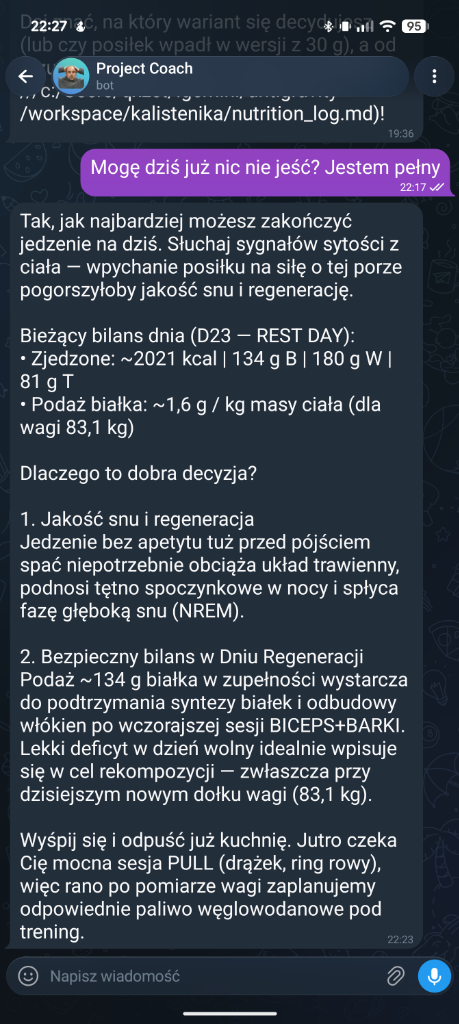
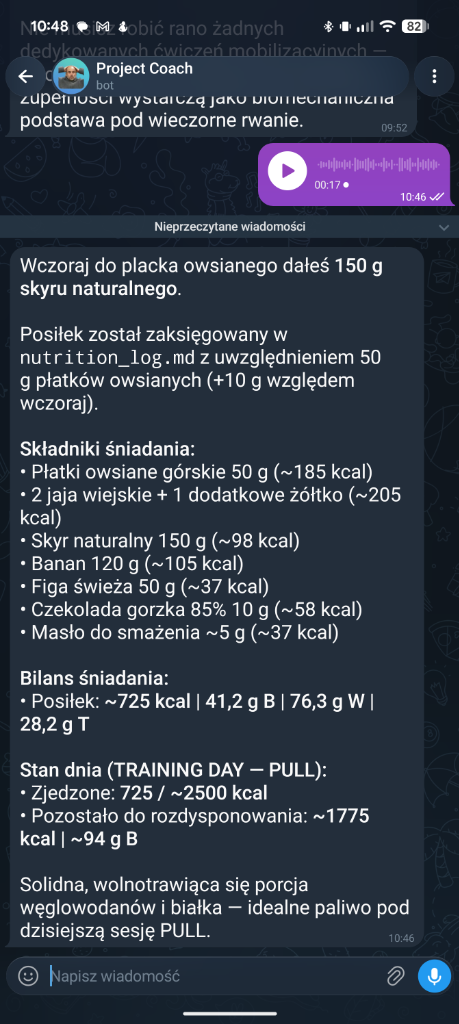
fix(showcase): update mobile interface screenshot and align captions

Changed region(s): [[0.0305, 0.0, 1.0, 0.9375], [0.8845, 0.0, 0.9455, 0.0312]]

diff --git a/CHANGELOG.pl.md b/CHANGELOG.pl.md
@@ -1,4 +1,4 @@
-# 📋 Rejestr Zmian (CHANGELOG)
+# 📋 Rejestr Zmian (CHANGELOG)
 
 Wszystkie istotne zmiany i etapy ewolucji architektonicznej projektu **Project Coach** są dokumentowane w tym pliku.
 
@@ -10,7 +10,7 @@ Format oparty jest o [Keep a Changelog](https://keepachangelog.com/pl/1.0.0/), a
 ### Dodano
 - **Dedykowany formater wiadomości mobilnych (Mobile UX Redesign):** Opracowano mechanizm prezentacji odpowiedzi zoptymalizowany pod wąskie ekrany smartfonów i zegarków w aplikacji Telegram.
 - **Kompaktowe karty bilansu dobowego:** Wprowadzono czytelne punktory dla kluczowych parametrów (Zjedzone, Podaż białka, Stan dnia), eliminujące konieczność przewijania.
-- **Kontekstowa pętla decyzyjna:** Agent w analizie na żywo uwzględnia bieżący stan mikrocyklu (D23 — REST DAY), fizjologię snu głębokiego (NREM), obciążenie trawienne w nocy oraz plan jednostki treningowej na kolejny dzień.
+- **Kontekstowa pętla decyzyjna:** Agent w analizie na żywo uwzględnia bieżący plan jednostki treningowej (TRAINING DAY — PULL), pamięć posiłków z poprzednich dni oraz natychmiastowe bilansowanie makroskładników z notatki głosowej.
 
 ### Zmieniono
 - **Eliminacja surowego formatu Markdown (GFM):** Zastąpiono tabele z separatorami | (które w Telegramie renderowały się jako nieczytelny blok tekstu) przejrzystym układem pionowym.

diff --git a/CHANGELOG.md b/CHANGELOG.md
@@ -1,4 +1,4 @@
-# 📋 Changelog
+# 📋 Changelog
 
 All notable architectural decisions and evolutionary milestones of **Project Coach** are documented in this file.
 
@@ -10,7 +10,7 @@ The format is based on [Keep a Changelog](https://keepachangelog.com/en/1.0.0/),
 ### Added
 - **Dedicated Telegram Message Formatter (Mobile UX Redesign):** Built a mobile-native presentation layer optimized for narrow smartphone screens and smartwatches.
 - **Compact Daily Nutrition Cards:** Clean bullet points for essential daily totals (Eaten, Protein intake, Daily status), eliminating cluttered vertical text blocks.
-- **Contextual Real-Time Decision Loop:** The agent evaluates live queries by correlating recovery status (D23 — REST DAY), deep sleep physiology (NREM), nighttime digestive load, and upcoming workout nutrition targets.
+- **Contextual Real-Time Decision Loop:** The agent evaluates live voice queries by correlating workout scheduling (TRAINING DAY — PULL), multi-day meal memory, and real-time macronutrient balancing.
 
 ### Changed
 - **Elimination of Raw Markdown (GFM):** Replaced broken pipe tables (|) with clean, vertical cards that render natively in Telegram.

diff --git a/README.pl.md b/README.pl.md
@@ -105,7 +105,7 @@ Integracja z aplikacją Telegram zapewnia w pełni mobilną obsługę. Użytkown
 <div align="center">
   <img src="showcase/telegram_bot.jpg" width="360" alt="Telegram Bot Interface" />
 </div>
-<p align="center"><i>Odpowiedź oparta na faktach: agent w ułamku sekundy wykonuje zapytanie SQL do bazy SQLite (weryfikuje 2021 kcal, wagę 83.1 kg z poranka i status REST DAY), generując decyzję bez halucynacji.</i></p>
+<p align="center"><i>Odpowiedź oparta na faktach: agent przetwarza 17-sekundową notatkę głosową, porównuje składniki z wczorajszym wpisem i na bieżąco aktualizuje bilans makro pod zaplanowaną jednostkę (TRAINING DAY — PULL).</i></p>
 
 ---
 

diff --git a/README.md b/README.md
@@ -105,7 +105,7 @@ Full integration with Telegram enables completely mobile, hands-free operation. 
 <div align="center">
   <img src="showcase/telegram_bot.jpg" width="360" alt="Telegram Bot Interface" />
 </div>
-<p align="center"><i>Fact-based response: the agent queries SQLite in sub-second time (verifying 2,021 kcal, 83.1 kg weigh-in, and REST DAY status) to produce a deterministic recommendation without hallucinations.</i></p>
+<p align="center"><i>Fact-based response: the agent transcribes a 17-second voice note, compares ingredients against yesterday's log, and updates the daily macro budget for the upcoming session (TRAINING DAY — PULL) in real time.</i></p>
 
 ---
 
